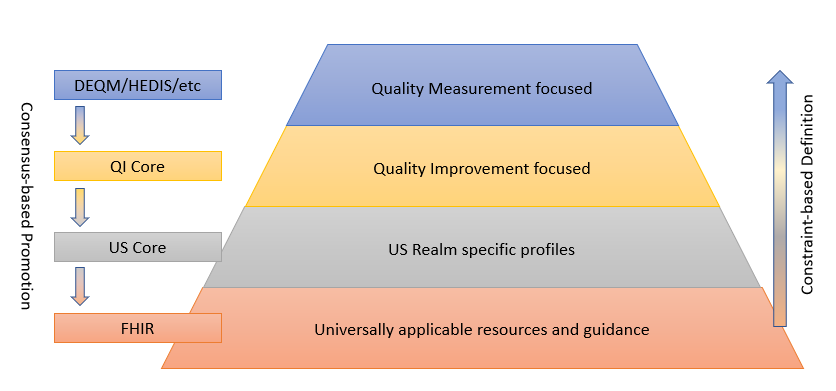
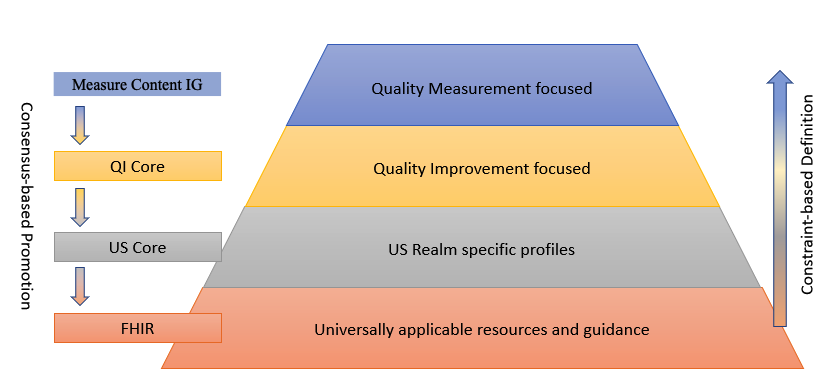
FHIR-44530 - Updated the text and image in data model standard landscape section to remove DEQM and HEDIS and replaced with Measure Content IG

Changed region(s): [[0.0622, 0.1535, 0.2799, 0.2762]]

diff --git a/input/pages/data-model-standards-landscape.md b/input/pages/data-model-standards-landscape.md
@@ -15,11 +15,10 @@ although it enables a variety of interoperability use cases, the profiles do not
 represent all of the requirements for quality improvement. The QI-Core profiles
 are derived from US Core and provide this additional functionality.
 
-There are occasional instances where additional specificity or functionality
-is required explicitly for quality measurement, or a particular component within
-a quality measure. In these cases, additional profiles are defined within the
-changes DEQM, or by stakeholders such as measure developers or implementers. A general example of this could be the development of profiles for specific measures, such as the ones that reference the Healthcare Effectiveness Data and Information Set (HEDIS) Implementation Guide (currently no link available).
-
+There are occasional instances where additional specificity or functionality is
+required explicitly for quality measurement, or a particular component within a
+quality measure. In these cases, creation of measure content IG can be considered
+to facilitate measure development.
 
 The following diagram depicts this data model standards landscape:
 
@@ -59,7 +58,7 @@ to specify only terminology narrowing constraints. The FHIR Clinical Reasoning
 module and CQL enable the representation of data requirements for quality
 measures and decision support artifacts.
 4.  **Promote data-related profiles.** When it becomes necessary to define a data-related profile at the
-measurement-specific level (in DEQM or HEDIS for example), steps should be taken
+measurement-specific level (in Measure Content IG for example), steps should be taken
 to promote that profile to the broadest consensus group possible.
 
 In addition to _what_ data is reported, use cases frequently require the

diff --git a/input/pages/changes.md b/input/pages/changes.md
@@ -30,6 +30,7 @@ This page details changes made in each version of the Quality Measure IG
 * **Applied**: Updated the description of the Capabilities page on home page ([FHIR-43628](https://jira.hl7.org/browse/FHIR-43628))([Applied here](https://hl7.org/fhir/us/cqfmeasures/2024Jan/#how-to-read-this-guide))
 * **Applied**: Removed section 1.3.3.1 FHIR Version Support and updated summary to reflect the current state of the IG ([FHIR-43767](https://jira.hl7.org/browse/FHIR-43767))([Applied here](https://hl7.org/fhir/us/cqfmeasures/2024Jan))
 * **Applied**: Updated the Quality Improvement Ecosystem paragraph to increase readability ([FHIR-44070](https://jira.hl7.org/browse/FHIR-44070))([Applied here](https://hl7.org/fhir/us/cqfmeasures/2024Jan/#quality-improvement-ecosystem))
+* **Applied**: Updated the text and image in data model standard landscape section to remove DEQM and HEDIS and replaced with Measure Content IG ([FHIR-44530](https://jira.hl7.org/browse/FHIR-44530))([Applied here](https://hl7.org/fhir/us/cqfmeasures/2024Jan/#data-model-standards-landscape))
 
 ### STU4 Publication for FHIR R4 (v4.0.0)
 
